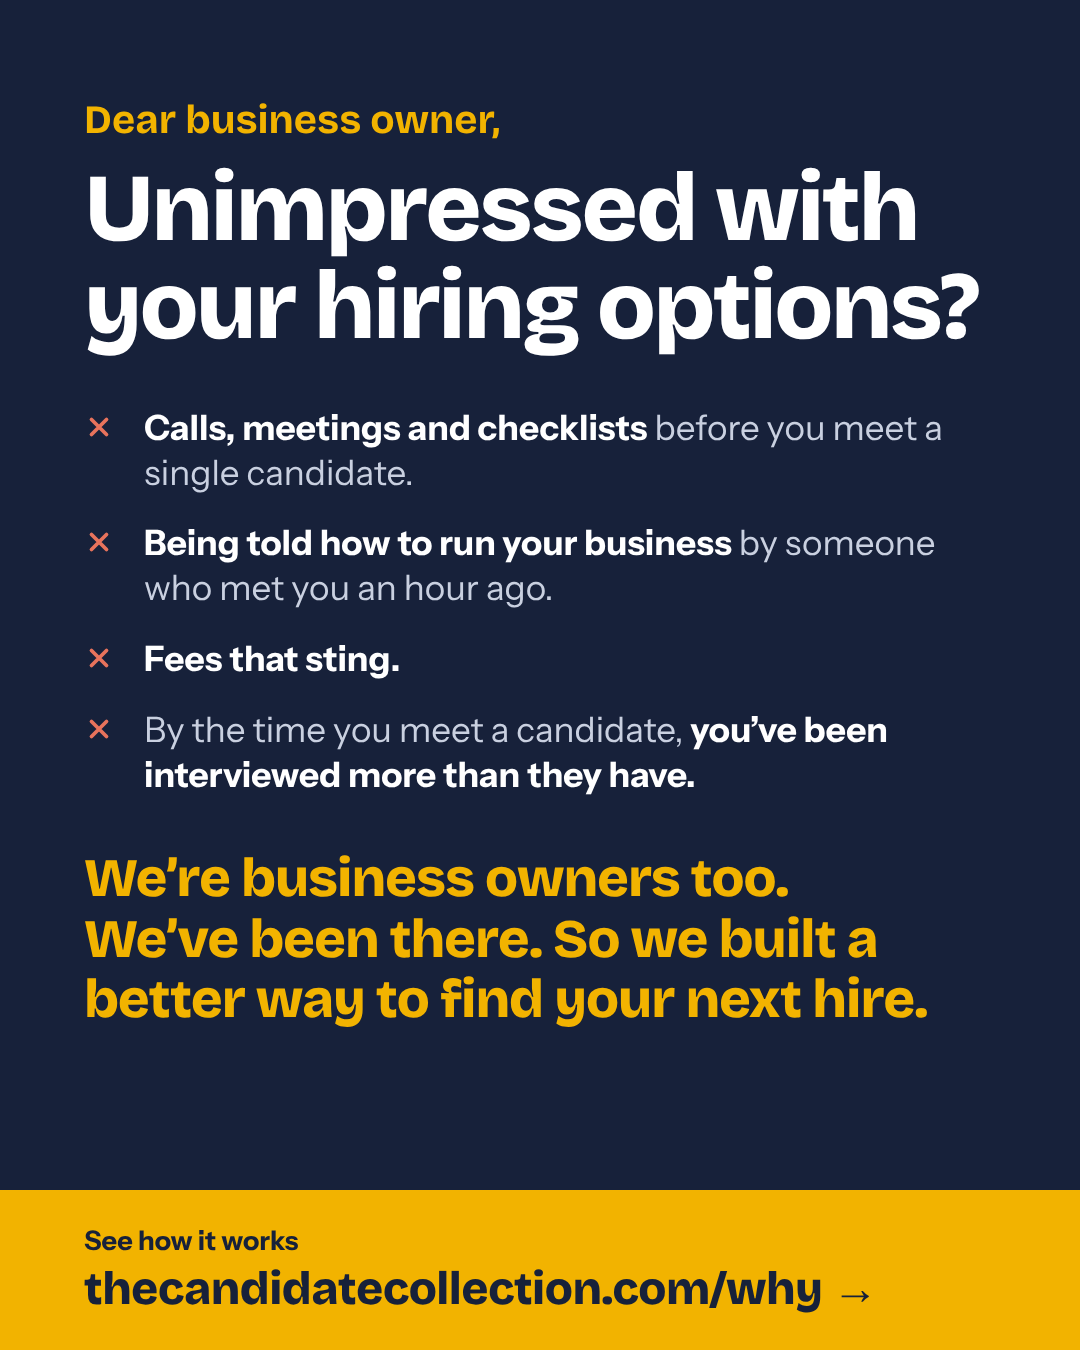
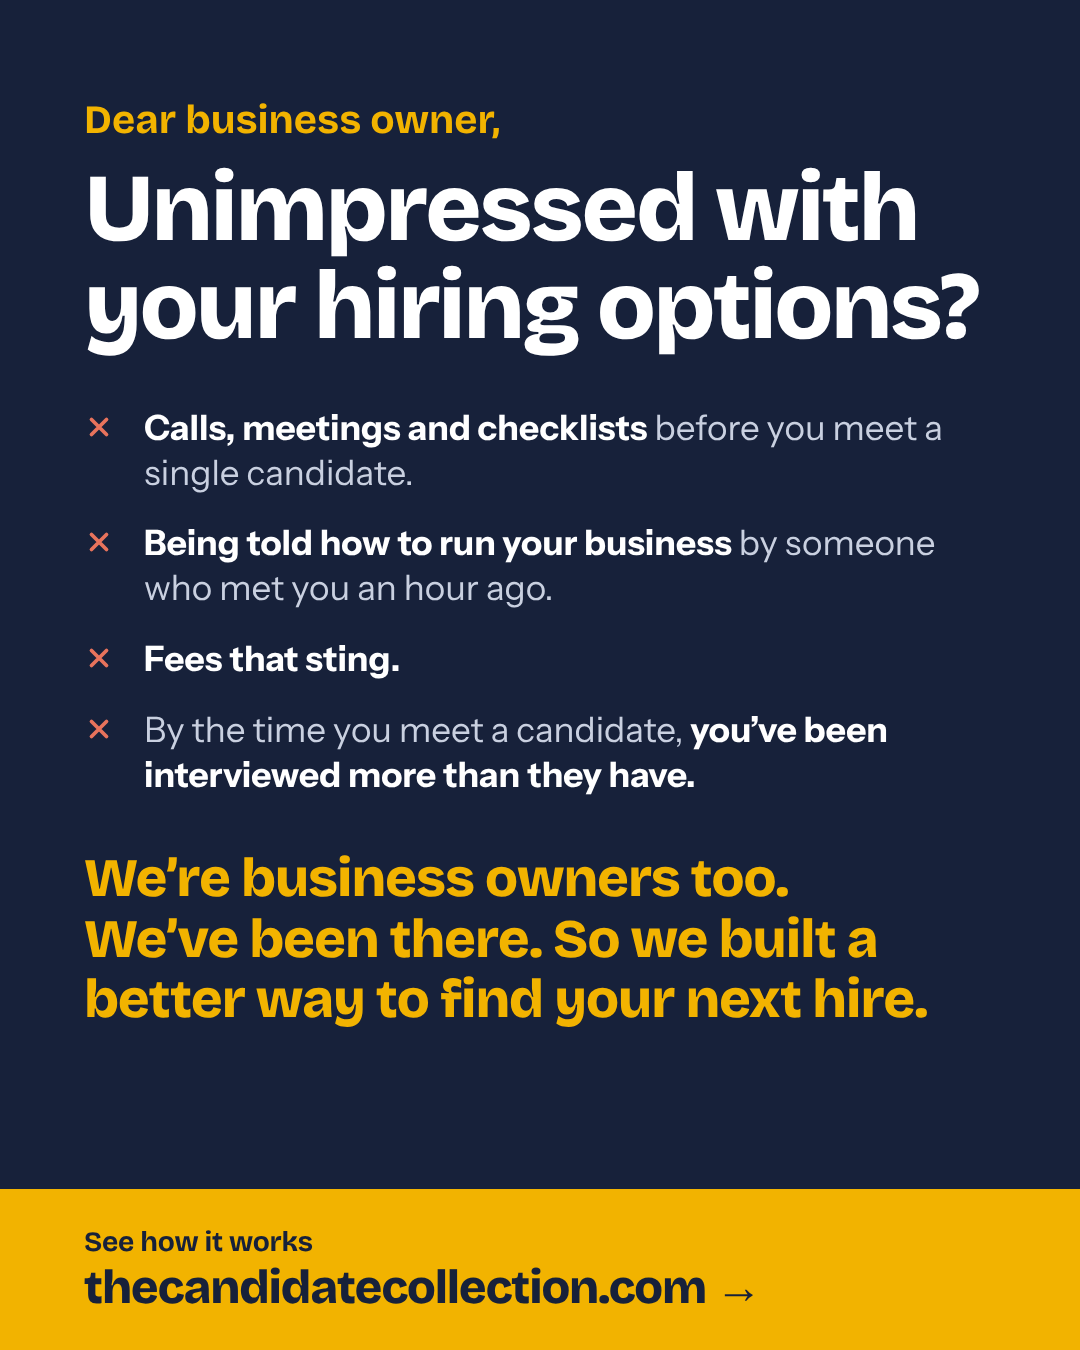
Share kit: letter graphic and message point to the homepage; call-backs and bookings record whose link brought the owner; owners are told the host's name only
Claude-Session: https://claude.ai/code/session_01EZeEyNzeQFPN4DFsUvzuMe

Changed region(s): [[0.0611, 0.9022, 0.7639, 0.9956]]

diff --git a/src/lib/ownerLeads.ts b/src/lib/ownerLeads.ts
@@ -10,6 +10,7 @@ import { isOwnerEmail } from "./session";
 // One list for Heshy and Shloimy, so nobody is missed. Kept in activity_log.
 
 export type Lead = {
+  ref?: string | null; // whose share link brought them
   id: string;
   kind: "callback" | "set_time";
   at: string;
@@ -20,7 +21,7 @@ export type Lead = {
   email: string | null;
   done: { at: string; by: string; note: string | null; declined: boolean } | null;
 };
-export type Booked = { id: string; token: string | null; owner_tz: string | null; staff_id: string | null; declined?: { at: string; by: string } | null; starts_at: string; minutes: number; name: string; business: string | null; role: string; phone: string | null; email: string | null; link: string | null; phoneCall: boolean };
+export type Booked = { ref?: string | null; id: string; token: string | null; owner_tz: string | null; staff_id: string | null; declined?: { at: string; by: string } | null; starts_at: string; minutes: number; name: string; business: string | null; role: string; phone: string | null; email: string | null; link: string | null; phoneCall: boolean };
 
 const DAY = 864e5;
 
@@ -42,6 +43,7 @@ export async function ownerLeads(nowMs: number): Promise<{ waiting: Lead[]; call
       role: r.details.role ?? "",
       phone: r.details.phone || null,
       email: r.details.email || null,
+      ref: r.details.ref || null,
       done: done.get(String(r.id)) ?? null,
     }),
   );
@@ -50,7 +52,7 @@ export async function ownerLeads(nowMs: number): Promise<{ waiting: Lead[]; call
       const d = m.details as Record<string, string | undefined>;
       const mins = Math.round((Date.parse(d.ends_at ?? "") - Date.parse(d.starts_at ?? "")) / 60e3);
       const dec = m.details.cancelled ? { at: d.declined_at ?? "", by: d.declined_by ?? "" } : null;
-      return { id: String(m.id), token: d.token || null, owner_tz: d.owner_tz || null, staff_id: d.staff_id || null, declined: dec, starts_at: d.starts_at ?? "", minutes: mins || 20, name: d.name ?? "", business: d.business || null, role: d.role ?? "", phone: d.phone || null, email: d.email || null, link: d.link || null, phoneCall: !!m.details.phoneCall };
+      return { ref: d.ref || null, id: String(m.id), token: d.token || null, owner_tz: d.owner_tz || null, staff_id: d.staff_id || null, declined: dec, starts_at: d.starts_at ?? "", minutes: mins || 20, name: d.name ?? "", business: d.business || null, role: d.role ?? "", phone: d.phone || null, email: d.email || null, link: d.link || null, phoneCall: !!m.details.phoneCall };
     })
     .sort((a, b) => a.starts_at.localeCompare(b.starts_at));
   const booked = all.filter((m) => !m.declined);
@@ -145,7 +147,10 @@ export async function declineMeeting(meetingId: string, message: string, by: { n
 // An owner asks for a call back: from the front page form, or from Meet the team
 // when no time suits them. Lands on the waiting list and goes to Shloimy.
 export async function fileCallback(o: { role: string; name: string; phone: string; email?: string; business?: string; from: "home" | "meet" }) {
-  await logActivity(`public:${o.phone}`, "owner_callback_request", { role: o.role, name: o.name, phone: o.phone, email: o.email || undefined, business: o.business || undefined, from: o.from });
+  // Whose share link brought them here, so the right person gets the credit.
+  const { sentBy } = await import("./shareKit");
+  const ref = await sentBy();
+  await logActivity(`public:${o.phone}`, "owner_callback_request", { role: o.role, name: o.name, phone: o.phone, email: o.email || undefined, business: o.business || undefined, from: o.from, ref: ref ?? undefined });
   await db()
     .from("positions")
     .insert({ title: o.role, company: o.business || null, source: "callback", contact_name: o.name, contact_email: o.email || null, needs: `Call back: ${o.phone}`, added_by: "callback" })
@@ -169,6 +174,7 @@ export async function fileCallback(o: { role: string; name: string; phone: strin
           ["Business", o.business ? e(o.business) : null],
           ["Phone", e(o.phone)],
           ["Email", o.email ? e(o.email) : null],
+          ["Came from", ref ? `${e(ref)}'s link` : null],
         ]) +
         kit.button(`${teamUrl()}/admin/candidates?q=${encodeURIComponent(o.role)}`, "Search the collection for this") +
         kit.button(`${teamUrl()}/admin/waiting`, "Mark them as called") +

diff --git a/src/lib/meetUs.ts b/src/lib/meetUs.ts
@@ -75,7 +75,9 @@ export async function bookMeeting(startIso: string, r: MeetRequest, ownerTz: str
   }
 
   const token = randomBytes(12).toString("base64url");
-  await logActivity(`public:${r.email}`, "owner_meeting", { ...r, starts_at: slot.start, ends_at: ends, staff_id: host.id, link, space, token, owner_tz: ownerTz });
+  const { sentBy } = await import("./shareKit");
+  const ref = await sentBy();
+  await logActivity(`public:${r.email}`, "owner_meeting", { ...r, ref: ref ?? undefined, starts_at: slot.start, ends_at: ends, staff_id: host.id, link, space, token, owner_tz: ownerTz });
 
   // Their opening goes on the private positions list, for matching.
   await db()
@@ -86,7 +88,8 @@ export async function bookMeeting(startIso: string, r: MeetRequest, ownerTz: str
       () => null,
     );
 
-  const names = team.map((l) => l.first).join(" and ");
+  // Owners are told one name: the person hosting their call.
+  const names = host.first;
   const whenOwner = formatInZone(slot.start, ownerTz);
   const ics = callIcs({ uid: `meet-${token}@thecandidatecollection.com`, start: slot.start, end: ends, title: `Call with ${names}, The Candidate Collection`, description: link ? `Join: ${link}` : "We'll call you.", location: link || null });
   await sendEmail({
@@ -122,6 +125,7 @@ export async function bookMeeting(startIso: string, r: MeetRequest, ownerTz: str
           ["When", whenUs + (l.id === host.id ? " (you're hosting)" : "")],
           ["Length", `${minutes} minutes`],
           ["Hiring for", r.role ? e(r.role) : null],
+          ["Came from", ref ? `${e(ref)}'s link` : null],
           ["Where", r.town ? e(r.town) : null],
           ["Needs someone", r.when ? e(r.when) : null],
           ["Notes", r.notes ? e(r.notes) : null],

diff --git a/src/lib/shareKit.ts b/src/lib/shareKit.ts
@@ -21,7 +21,7 @@ export function shareLink(ref?: string | null, to: "home" | "why" = "home") {
 }
 
 export function ownerMessage(ref?: string | null) {
-  return `If hiring has ever felt like more work than it should be, this is for you.\n\nTake a look: ${shareLink(ref, "home")}\n\nHow it works: ${siteUrl()}/how-it-works${ref ? `?r=${refSlug(ref)}` : ""}`;
+  return `If hiring has ever felt like more work than it should be, this is for you.\n\nSee how it works: ${shareLink(ref, "home")}`;
 }
 
 // The teaser: the new front-page message, one link, meant to make an owner curious.
@@ -63,5 +63,14 @@ export async function tagReferral(ownerId: string) {
     await db().from("owners").update({ referred_by: ref }).eq("id", ownerId).is("referred_by", null);
   } catch {
     /* never block sign-up over this */
+  }
+}
+
+// Whose share link brought this visitor (the ?r= name, remembered for 90 days), or null.
+export async function sentBy(): Promise<string | null> {
+  try {
+    return refSlug((await cookies()).get(REF_COOKIE)?.value ?? "") || null;
+  } catch {
+    return null;
   }
 }

diff --git a/src/app/admin/(panel)/OwnersWaiting.tsx b/src/app/admin/(panel)/OwnersWaiting.tsx
@@ -49,6 +49,7 @@ export async function OwnersWaiting({ full = false }: { full?: boolean }) {
               </b>
               <span>
                 Hiring for: {l.role || "not said"} · {l.kind === "callback" ? "asked for a call back" : "asked us to call and set a time"}
+                {l.ref ? ` · came from ${l.ref}'s link` : ""}
               </span>
               <span className={s.wait}>Waiting {ago(waited)}</span>
             </div>
@@ -95,7 +96,10 @@ export async function OwnersWaiting({ full = false }: { full?: boolean }) {
                   {m.name}
                   {m.business ? `, ${m.business}` : ""}
                 </b>
-                <span>Hiring for: {m.role || "not said"}</span>
+                <span>
+                  Hiring for: {m.role || "not said"}
+                  {m.ref ? ` · came from ${m.ref}'s link` : ""}
+                </span>
                 <span className={s.time}>
                   {when(m.starts_at)} · {m.minutes} min{m.phoneCall ? " · wants a phone call" : ""}
                 </span>

diff --git a/src/app/meet/actions.ts b/src/app/meet/actions.ts
@@ -30,7 +30,8 @@ export async function askForCall(r: MeetRequest) {
   const c = await clean({ ...r, phoneCall: false });
   if (typeof c === "string") return { error: c };
   if (!(await allow("meet-us", 6, 60))) return { error: SLOW_DOWN };
-  await logActivity(`public:${c.email}`, "owner_meeting_request", c);
+  const { sentBy } = await import("@/lib/shareKit");
+  await logActivity(`public:${c.email}`, "owner_meeting_request", { ...c, ref: (await sentBy()) ?? undefined });
   await emailAdmin(
     `Call request: ${c.business || c.name}`,
     `<p><strong>${e(c.name)}</strong>${c.business ? `, ${e(c.business)}` : ""} wants to talk. There were no open times, so call them to set one.</p><p>Hiring for: ${e(c.role)}<br>Where: ${e(c.town || "-")}<br>Needs someone: ${e(c.when || "-")}<br>Phone: ${e(c.phone || "-")}<br>Email: ${e(c.email)}</p>${c.notes ? `<p>${e(c.notes)}</p>` : ""}`,

diff --git a/src/proxy.ts b/src/proxy.ts
@@ -43,5 +43,5 @@ export function proxy(req: NextRequest) {
 }
 
 export const config = {
-  matcher: ["/", "/why", "/mission", "/apply", "/contact", "/privacy", "/strengths", "/candidates", "/candidates/:path*", "/join", "/join/:path*", "/hiring-help", "/hiring-help/:path*"],
+  matcher: ["/", "/why", "/how-it-works", "/meet", "/billing", "/terms", "/mission", "/apply", "/contact", "/privacy", "/strengths", "/candidates", "/candidates/:path*", "/join", "/join/:path*", "/hiring-help", "/hiring-help/:path*"],
 };
